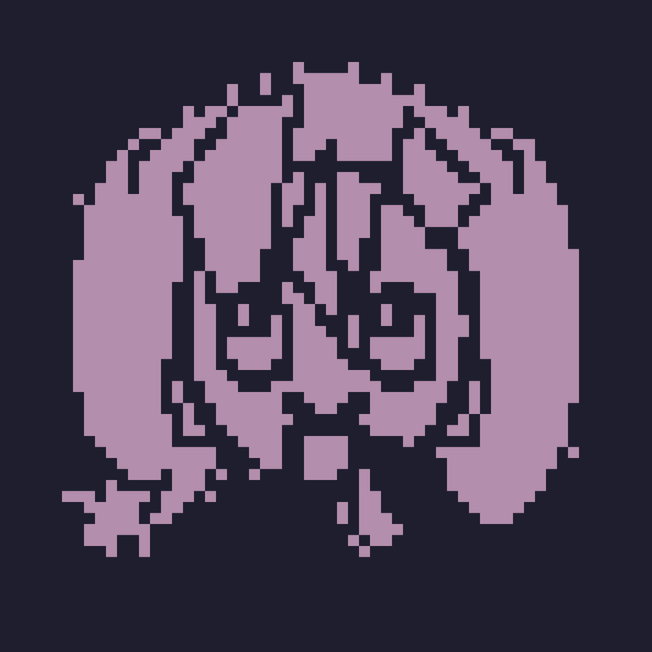
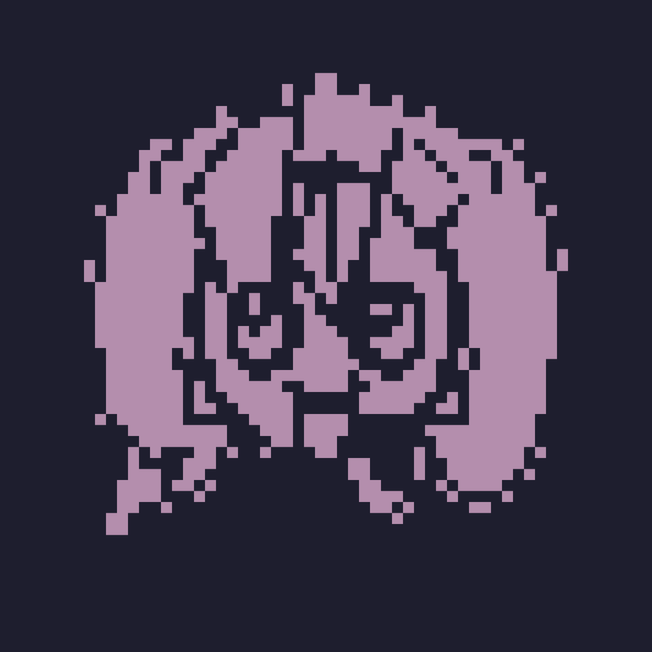
refine block art composition

Changed region(s): [[0.092, 0.092, 0.8896, 0.8589]]

diff --git a/src/edgeglyph/engine.py b/src/edgeglyph/engine.py
@@ -57,6 +57,7 @@ class BlockConfig:
     oversample: int = 6
     fit: str = "cover"
     focus_y: float = 0.36
+    zoom: float = 1.0
     cell_width: int = 11
     cell_height: int = 22
 
@@ -247,21 +248,20 @@ def prepare_block_source(source_path, config):
     pixel_rows = config.rows * 2
     working_size = (config.cols * config.oversample, pixel_rows * config.oversample)
     original = Image.open(source_path).convert("RGBA")
-    if config.fit == "cover":
-        fitted = ImageOps.fit(
-            original,
-            working_size,
-            Image.Resampling.LANCZOS,
-            centering=(0.5, config.focus_y),
-        )
-    elif config.fit == "contain":
-        fitted = ImageOps.contain(original, working_size, Image.Resampling.LANCZOS)
-    else:
-        raise ValueError(f"unsupported block fit: {config.fit}")
+    scale_x = working_size[0] / original.width
+    scale_y = working_size[1] / original.height
+    scale = (
+        max(scale_x, scale_y) if config.fit == "cover" else min(scale_x, scale_y)
+    ) * config.zoom
+    fitted_size = (
+        max(1, round(original.width * scale)),
+        max(1, round(original.height * scale)),
+    )
+    fitted = original.resize(fitted_size, Image.Resampling.LANCZOS)
     canvas = Image.new("RGBA", working_size, (255, 255, 255, 0))
     offset = (
         (working_size[0] - fitted.width) // 2,
-        (working_size[1] - fitted.height) // 2,
+        round((working_size[1] - fitted.height) * config.focus_y),
     )
     canvas.alpha_composite(fitted, offset)
 
@@ -1175,6 +1175,8 @@ def render_blocks(source_path, config=None):
         raise ValueError(f"unsupported block fit: {config.fit}")
     if not 0 <= config.focus_y <= 1:
         raise ValueError("focus_y must be between 0 and 1")
+    if not 0.1 <= config.zoom <= 4:
+        raise ValueError("zoom must be between 0.1 and 4")
     if not 0 <= config.subject_threshold <= 1 or not 0 <= config.ink_threshold <= 1:
         raise ValueError("block thresholds must be between 0 and 1")
 

diff --git a/tests/test_engine.py b/tests/test_engine.py
@@ -94,6 +94,25 @@ class RenderTests(unittest.TestCase):
             self.assertGreater(result.metrics["foreground_ratio"], 0)
             self.assertEqual(len(result.palette), 1)
 
+    def test_block_zoom_reduces_subject_coverage(self):
+        with tempfile.TemporaryDirectory() as directory:
+            source = Path(directory) / "source.png"
+            image = Image.new("RGB", (96, 96), "white")
+            ImageDraw.Draw(image).ellipse((4, 4, 92, 92), fill="#e0a060")
+            image.save(source)
+
+            full = render_blocks(
+                source,
+                BlockConfig(cols=24, rows=8, oversample=4, zoom=1.0),
+            )
+            inset = render_blocks(
+                source,
+                BlockConfig(cols=24, rows=8, oversample=4, zoom=0.75),
+            )
+            self.assertLess(
+                inset.metrics["foreground_ratio"], full.metrics["foreground_ratio"]
+            )
+
     @unittest.skipUnless(find_test_font(), "no suitable monospace font found")
     def test_small_synthetic_render(self):
         with tempfile.TemporaryDirectory() as directory:

diff --git a/src/edgeglyph/cli.py b/src/edgeglyph/cli.py
@@ -40,6 +40,7 @@ def build_parser():
     parser.add_argument("--oversample", type=int, default=6)
     parser.add_argument("--fit", choices=("contain", "cover"), default="cover")
     parser.add_argument("--focus-y", type=float, default=0.36)
+    parser.add_argument("--zoom", type=float, default=1.0)
     parser.add_argument("--colors", type=int, default=16)
     parser.add_argument("--top-k", type=int, default=8)
     parser.add_argument("--min-luminance", type=float, default=0.72)
@@ -88,6 +89,7 @@ def main(argv=None):
             oversample=args.oversample,
             fit=args.fit,
             focus_y=args.focus_y,
+            zoom=args.zoom,
         )
         result = render_blocks(args.source, config)
     else:

diff --git a/README.md b/README.md
@@ -41,7 +41,7 @@ edgeglyph input.png \
   --style block \
   --cols 72 --rows 24 \
   --foreground '#b48ead' \
-  --fit cover --focus-y 0.36 \
+  --fit cover --focus-y 0.36 --zoom 0.9 \
   --output output.txt \
   --preview output.png
 ```
@@ -60,6 +60,7 @@ Block controls:
 - `--fit cover`: fills the requested frame and crops excess source area.
 - `--fit contain`: keeps the complete source and leaves empty margins where needed.
 - `--focus-y`: moves the crop toward the top or bottom of the source.
+- `--zoom`: scales the subject inside the frame without changing terminal dimensions.
 - `--subject-threshold`: controls the outer silhouette coverage threshold.
 - `--ink-threshold`: controls how aggressively dark line art is carved from the silhouette.
 - `--foreground`: sets the single foreground color used by the block renderer.
